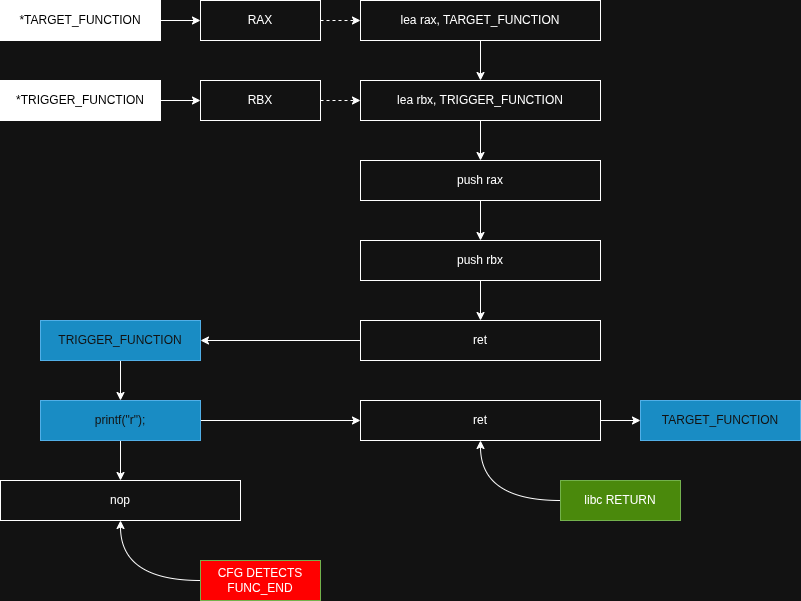
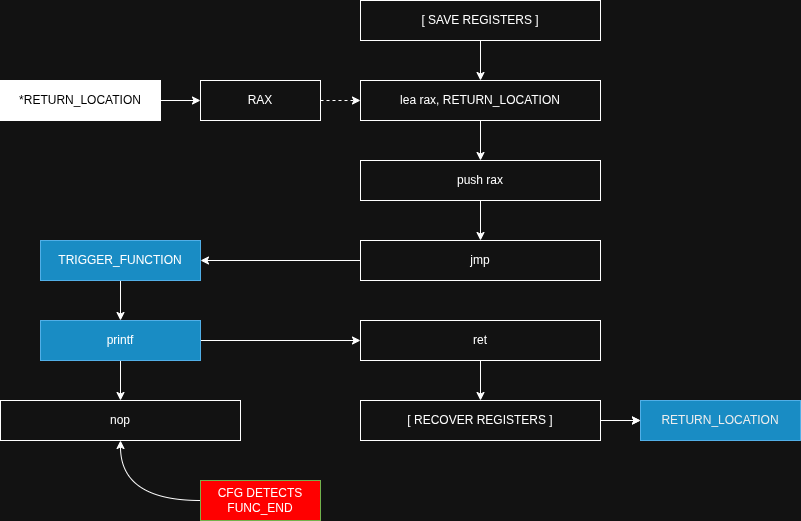
stack stabilized

diff --git a/research/function_boundary/resarch1.h b/research/function_boundary/resarch1.h
@@ -7,14 +7,48 @@ void TRIGGER_FUNCTION() { printf("\r"); }
 void RETURN_CALL() {
     void* TRIGGER = (void*)TRIGGER_FUNCTION;
     __asm__ volatile (
+        // [ SAVE REGISTERS ]
+        "pushq %%rax\n\t"
+        "pushq %%rcx\n\t"
+        "pushq %%rdx\n\t"
+        "pushq %%rbx\n\t"
+        "pushq %%rsi\n\t"
+        "pushq %%rdi\n\t"
+        "pushq %%r8\n\t"
+        "pushq %%r9\n\t"
+        "pushq %%r10\n\t"
+        "pushq %%r11\n\t"
+        "pushq %%rbp\n\t"
+        "movq %%rsp, %%rbp\n\t"
+
+        // [ STACK ALIGNMENT ]
+        "andq $-16, %%rsp\n\t"
+
+        // [ RETURN ADDRESS MANIPULATION ]
         "leaq 1f(%%rip), %%rax\n\t"
         "pushq %%rax\n\t"
-        "pushq %0\n\t"
-        "retq\n\t"
+
+        // [ JUMP TO TRIGGER ]
+        "jmp *%0\n\t"
+
         "1:\n\t"
+
+        // [ RECOVER REGISTERS ]
+        "movq %%rbp, %%rsp\n\t"
+        "popq %%rbp\n\t"
+        "popq %%r11\n\t"
+        "popq %%r10\n\t"
+        "popq %%r9\n\t"
+        "popq %%r8\n\t"
+        "popq %%rdi\n\t"
+        "popq %%rsi\n\t"
+        "popq %%rbx\n\t"
+        "popq %%rdx\n\t"
+        "popq %%rcx\n\t"
+        "popq %%rax\n\t"
         :
         : "r" (TRIGGER)
-        : "rax", "memory"
+        : "rax", "memory", "cc"
     );
 }
 

diff --git a/sample/sample.c b/sample/sample.c
@@ -1,8 +1,10 @@
 #include <stdio.h>
 #include <stdint.h>
 #include <string.h>
+#include "BRKDEC.h"
 
 static int mix_value(int x, int seed) {
+    BRKDEC_FUNC_BOUNDARY;
     int v = x ^ (seed * 31);
 
     if ((v & 1) == 0) {
@@ -19,6 +21,7 @@ static int mix_value(int x, int seed) {
 }
 
 static int transform_item(int value, int index, int mode) {
+    BRKDEC_FUNC_BOUNDARY;
     int out = value;
 
     switch (mode % 4) {
@@ -48,6 +51,7 @@ static int transform_item(int value, int index, int mode) {
 }
 
 int analyze_buffer(const int *buf, int len, int seed) {
+    BRKDEC_FUNC_BOUNDARY;
     int score = 0;
     int penalty = 0;
     int i;
@@ -90,6 +94,7 @@ int analyze_buffer(const int *buf, int len, int seed) {
 }
 
 int classify_score(int score) {
+    BRKDEC_FUNC_BOUNDARY;
     if (score < 0) {
         return -1;
     } else if (score < 100) {
@@ -102,13 +107,14 @@ int classify_score(int score) {
 }
 
 int main(void) {
+    BRKDEC_FUNC_BOUNDARY;
     int data[] = {12, 7, 0, 31, 44, 9, 18, 5, 27, 63};
     int len = (int)(sizeof(data) / sizeof(data[0]));
     int seed = 13;
 
     int score = analyze_buffer(data, len, seed);
     int cls = classify_score(score);
-
+    
     printf("score = %d\n", score);
     printf("class = %d\n", cls);
 

diff --git a/research/pseudocode/research2.c b/research/pseudocode/research2.c
@@ -1,0 +1,7 @@
+#include <stdio.h>
+#include "research2.h"
+
+int main() {
+    printf("done!\n");
+    return 0;
+}

diff --git a/research/pseudocode/research2.h b/research/pseudocode/research2.h
@@ -1,0 +1,6 @@
+#ifndef BRKDEC
+#define BRKDEC
+
+#define BRKDEC_PSEUDOCODE {}
+
+#endif

diff --git a/README.md b/README.md
@@ -110,7 +110,7 @@ To demonstrate the effectiveness of the outcomes, simple samples written in C an
 ## Research
 
 ### Function Boundary Obfuscation
-Through two days of experimentation, I have observed that when the return adddress is manipulated to cause an abnormal transfer of execution flow between functions, commerical decompilers fail to precisely track the actual execution path.
+Through three days of experimentation, I have observed that when the return adddress is manipulated to cause an abnormal transfer of execution flow between functions, commerical decompilers fail to precisely track the actual execution path.
 
 This technique exploits the assumption made by decompilers that normal call/return operations occur within a function. Typically, a decompiler constructs a CFG on an intra-procedural basis, assuming that each function has an identifiable entry point and a `ret`-based termination/return point.
 
@@ -128,117 +128,6 @@ The research presented in that blog focused on malware and anti-decompilation te
 
 
 ## Validation
-
-### Function Boundary
-
-#### IDA Free
-```c
-/* This file was generated by the Hex-Rays decompiler version 9.3.0.260327.
-   Copyright (c) 2007-2025 Hex-Rays <info@hex-rays.com>
-
-   Detected compiler: GNU C++
-*/
-//----- (0000000000001060) ----------------------------------------------------
-// positive sp value has been detected, the output may be wrong!
-void __fastcall __noreturn start(__int64 a1, __int64 a2, void (*a3)())
-{
-    __int64 v3; // rax
-    int v4; // esi
-    __int64 v5; // [rsp-8h] [rbp-8h] BYREF
-    char *retaddr; // [rsp+0h] [rbp+0h] BYREF
-
-    v4 = v5;
-    v5 = v3;
-    _libc_start_main(main, v4, &retaddr, nullptr, nullptr, a3, &v5);
-    __halt();
-}
-
-//----- (0000000000001150) ----------------------------------------------------
-int sub_1150()
-{
-    return putchar(13);
-}
-
-//----- (0000000000001180) ----------------------------------------------------
-int __fastcall main(int a1, char **a2, char **a3)
-{
-    return sub_1150();
-}
-
-//----- (0000000000001192) ----------------------------------------------------
-// positive sp value has been detected, the output may be wrong!
-__int64 sub_1192()
-{
-    puts("done!");
-    return 0;
-}
-// 11A1: positive sp value 8 has been found
-// 1192: using guessed type __int64 sub_1192();
-```
-
-| | |
-|-|-|
-| ![](./rsrc/function_boundary/IDA_result1.png) | ![](./rsrc/function_boundary/IDA_result2.png) |
-
-#### Ghidra
-```c
-void processEntry entry(undefined8 param_1,undefined8 param_2)
-
-{
-    undefined1 auStack_8 [8];
-    
-    __libc_start_main(FUN_00101180,param_2,&stack0x00000008,0,0,param_1,auStack_8);
-    do {
-                      // WARNING: Do nothing block with infinite loop
-    } while( true );
-}
-
-void FUN_00101150(void)
-
-{
-    putchar(0xd);
-    return;
-}
-
-void FUN_00101180(void)
-
-{
-    return;
-}
-
-```
-
-| | |
-|-|-|
-| ![](./rsrc/function_boundary/Ghidra_result1.png) | ![](./rsrc/function_boundary/Ghidra_result2.png) |
-
-#### Binary Ninja
-```c
-void _start(int64_t arg1, int64_t arg2, void (* arg3)()) __noreturn
-{
-    int64_t stack_end_1;
-    int64_t stack_end = stack_end_1;
-    void ubp_av;
-    __libc_start_main(main, __return_addr, &ubp_av, nullptr, nullptr, arg3, &stack_end);
-    /* no return */
-}
-
-int64_t sub_401160()
-{
-    int64_t (* var_8)() = sub_401171;
-    /* tailcall */
-    return putchar(0xd);
-}
-
-int32_t main(int32_t argc, char** argv, char** envp)
-{
-    void* const var_10 = &data_401192;
-    /* tailcall */
-    return putchar(0xd);
-}
-```
-
-![BN_result](./rsrc/function_boundary/BN_result.png)
 
 
 ## Limitations
